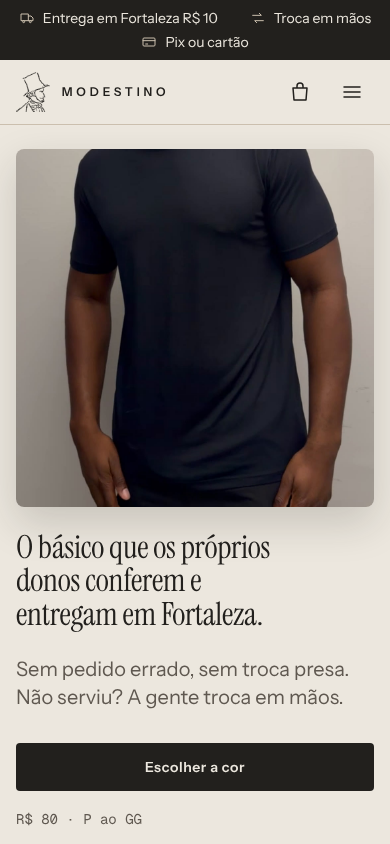
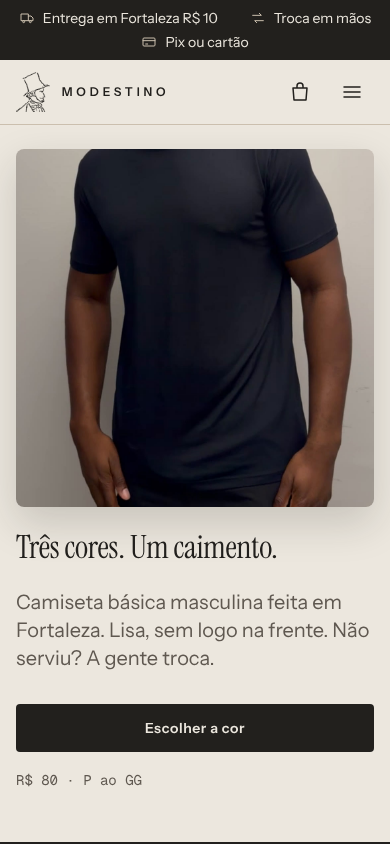
Loja: título da primeira tela pela identidade e promessa só da troca
Claude-Session: https://claude.ai/code/session_01XyhGghdVvLcnYoXGzyzWry

Changed region(s): [[0.0, 0.6161, 1.0, 1.0]]

diff --git a/loja/build-log.md b/loja/build-log.md
@@ -1,5 +1,12 @@
 # Construção da loja — registro
 
+## 27/10/2026 (noite, 3ª rodada) — título pela identidade, promessa é a troca
+
+Decisão do Jorge: o título fala da identidade (não dos donos) e a loja não promete "sem erro", só a troca.
+- Título: "Três cores. Um caimento." (mockup aprovado). Subtítulo: "Camiseta básica masculina feita em Fortaleza. Lisa, sem logo na frente. Não serviu? A gente troca."
+- Saíram "Conferida pelos donos" (vira "Costura no osso do ombro", do mockup), "Conferido e entregue pelos donos" na caixa de frete e a pergunta "Quem confere o pedido?".
+- 4 arquivos reenviados ao tema de construção, checksums conferidos; tema segue não publicado.
+
 ## 27/10/2026 (noite, 2ª rodada) — textos no tom do mockup aprovado
 
 Pedido do Jorge: textos minimalistas, só o necessário, na voz do mockup aprovado ("Modestino — Landing page", 21/10) e do Instagram, calibrados pelas lojas grandes.
